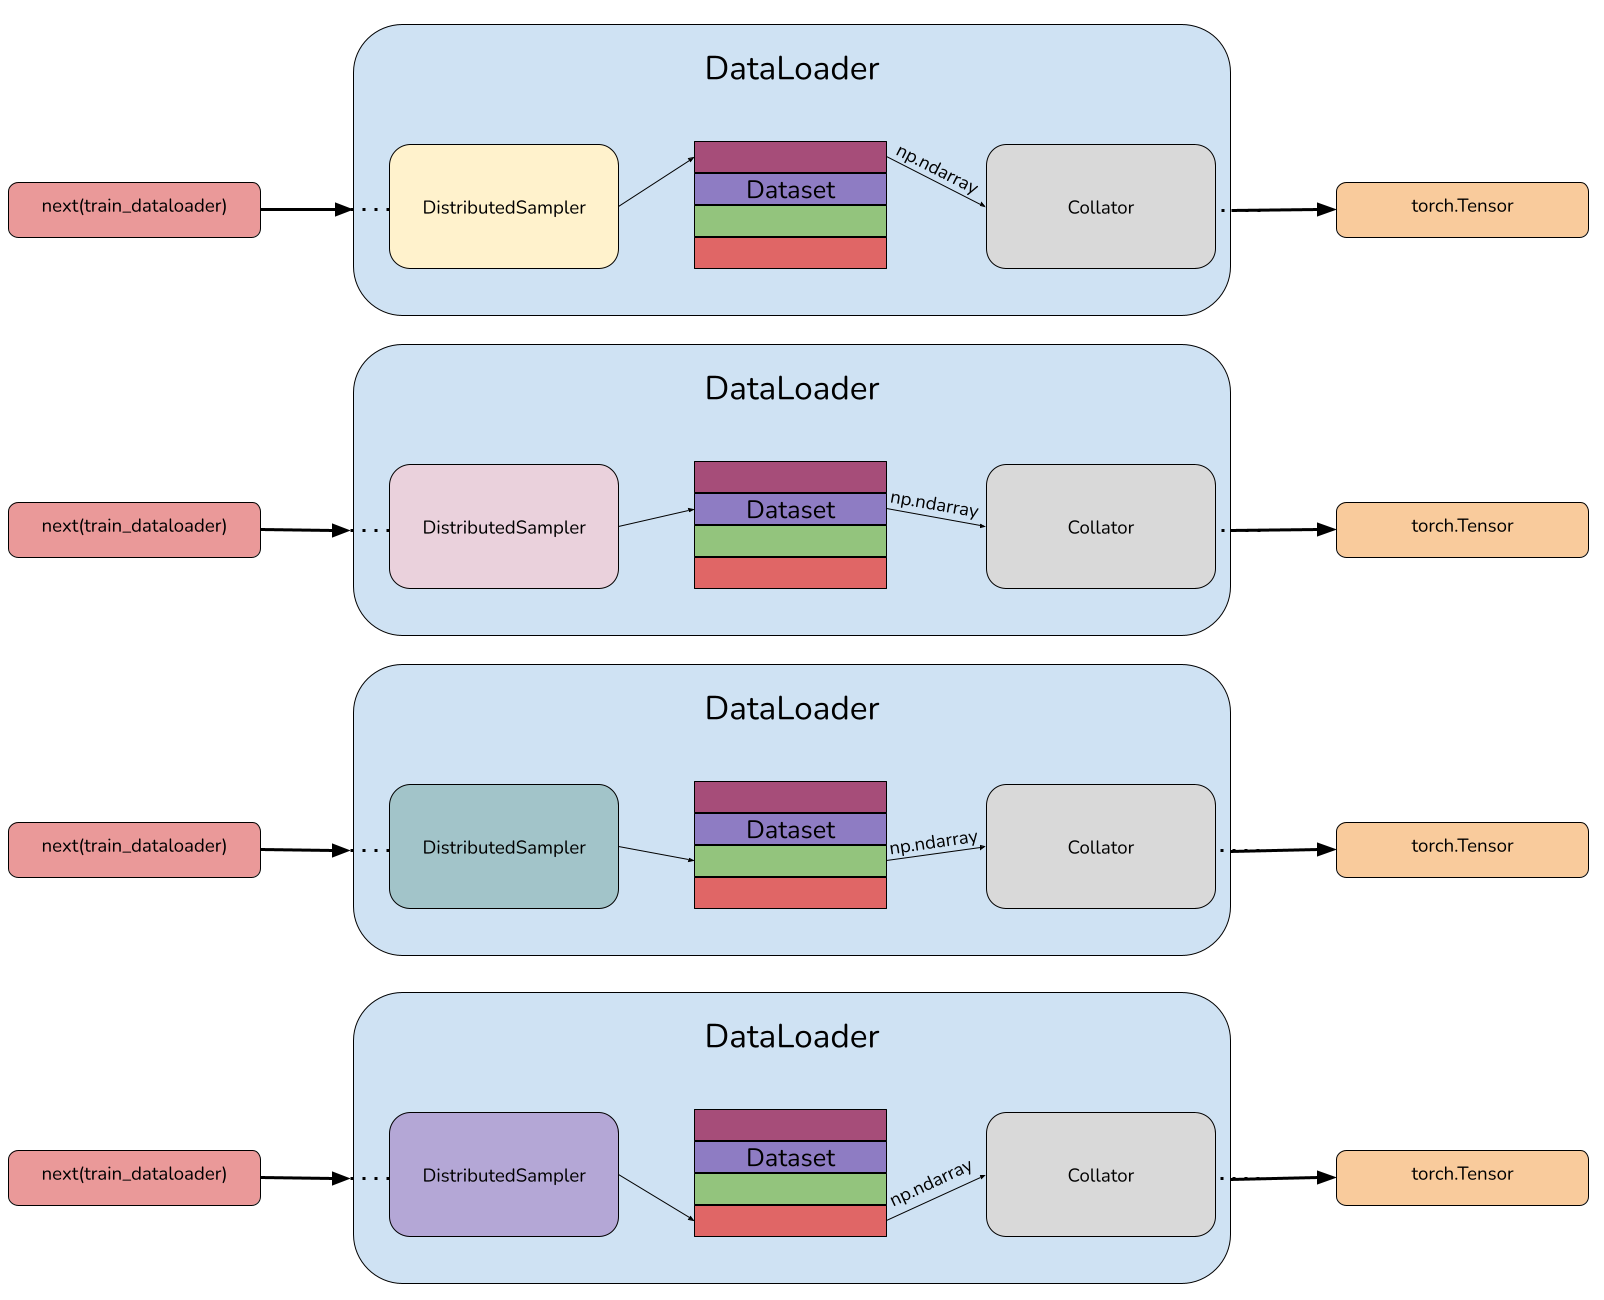
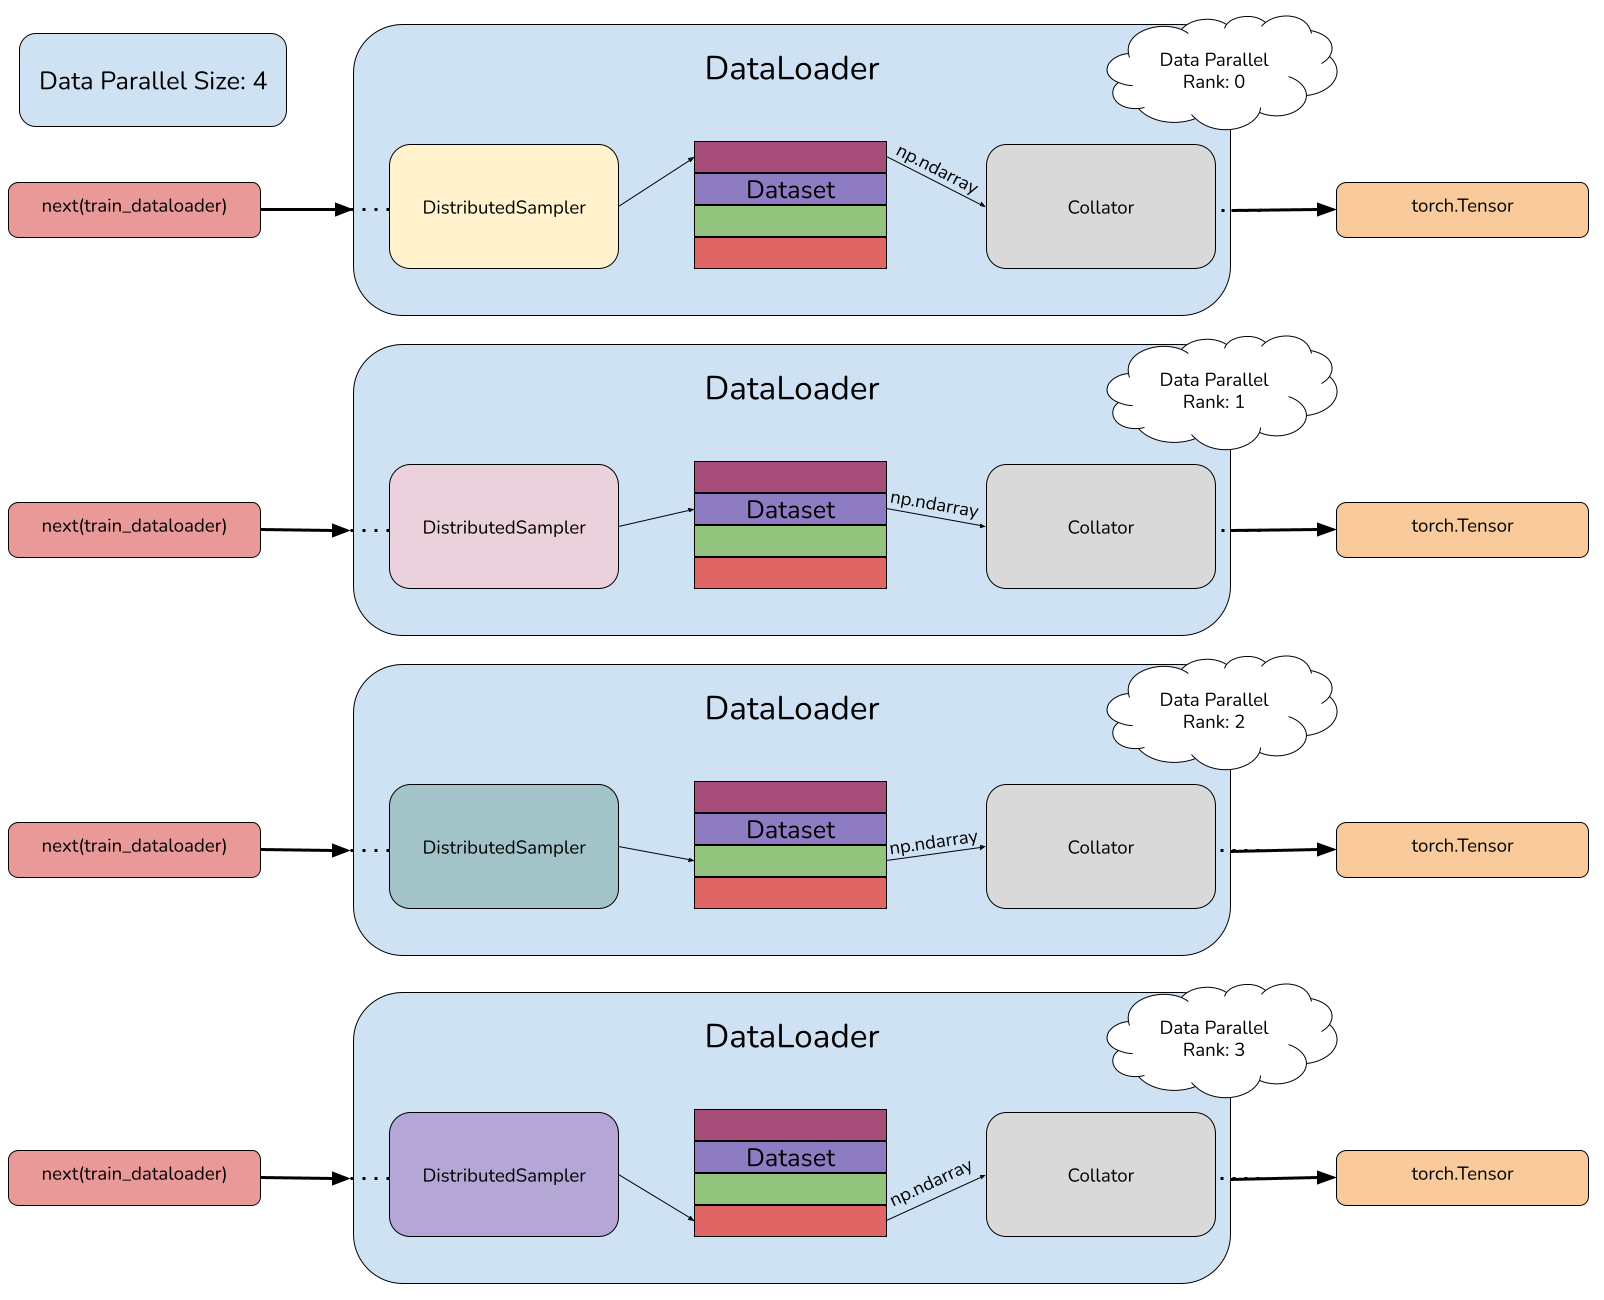
added data parallel info

diff --git a/content/post/torchs-datasets-and-dataloaders/index.md b/content/post/torchs-datasets-and-dataloaders/index.md
@@ -42,7 +42,7 @@ In this post, we will address the fundamental aspects of Torch's `Dataset`s and 
 # Nanosets
 Our objective for training LLMs is to build batches containing `batch_size` samples with `sequence_length` tokens for the `input_ids` and `labels`. To achieve this, we will present the `Nanosets`, a dataset based on [numpy memory-mapped arrays](https://numpy.org/doc/stable/reference/generated/numpy.memmap.html), which allows to easily read bytes of data from local disk. These bytes we will read are the tokens of the documents with which we want to train our model. In order not to lengthen this article, we will start from the assumption that we already have the tokenized documents stored in a file, where each token is represented by 2 bytes.
 ## Torch's Dataset
-Below we show the source code of the Nanosets.
+Below we show the source code of the `Nanosets`.
 
 ```python
 from typing import Dict, List, Union
@@ -182,7 +182,8 @@ class Nanoset(Dataset):
 
 The 3 core aspects of a `Dataset` are:
 - **\_\_init\_\_**: This method will be responsible for creating our dataset based on the arguments we introduce. Here we build all the logic related to how we interact with the `Dataset`.
-  
+  > 🚨 Next we will explain the core details of `Nanosets`. It is not necessary to understand them in depth to understand the rest of the post, so feel free to step over this part. It serves as an example to illustrate the idea that in the \_\_init\_\_ method you have to build all the necessary logic to later interact with the `Dataset`.  
+
   In our case, the parameters characterizing each `Nanoset` are as follows:
     - `dataset_paths`: One or multiple paths to the datasets containing tokenized documents.
     - `dataset_weights`: If we train the model with >1 datasets, we can specify the proportion of samples from each one during training.
@@ -281,14 +282,16 @@ In the following way, we will create the `DistributedSampler` in the processes t
 ```python
 from torch.utils.data.distributed import DistributedSampler
 
-sampler = DistributedSampler(train_nanoset, num_replicas=4, rank=0, shuffle=False)
+DATA_PARALLEL_SIZE = 4
+
+sampler = DistributedSampler(train_nanoset, num_replicas=DATA_PARALLEL_SIZE, rank=0, shuffle=False)
 ```
 
 These will be the indices that we will query from the `Dataset`.
 
 ```python
 sampler = iter(sampler)
-for _ in range(5):
+for _ in range(4):
     print(next(sampler))
 ```
 
@@ -296,14 +299,13 @@ for _ in range(5):
     4
     8
     12
-    16
 
 And this is how we create the `DistributedSampler` for the processes belonging to the second Data Parallel Rank. As can be seen, the sampler access different indices from the `Dataset`.
 
 ```python
-sampler_1 = DistributedSampler(train_nanoset, num_replicas=4, rank=1, shuffle=False)
+sampler_1 = DistributedSampler(train_nanoset, num_replicas=DATA_PARALLEL_SIZE, rank=1, shuffle=False)
 sampler_1 = iter(sampler_1)
-for _ in range(5):
+for _ in range(4):
     print(next(sampler_1))
 ```
 
@@ -311,7 +313,23 @@ for _ in range(5):
     5
     9
     13
-    17
+
+If we have a `Dataset` with 16 samples and a Data Parallel Size of 4, the `DistributedSampler` indices will look like this:
+```
+Proc1 | Proc2 | Proc3 | Proc4
+------------------------------ Epoch 1
+0	   1	   2	   3
+4	   5	   6	   7
+8	   9	   10	   11
+12	   13	   14	   15
+------------------------------ Epoch 2
+0	   1	   2	   3
+4	   5	   6	   7
+8	   9	   10	   11
+12	   13	   14	   15
+------------------------------ Epoch 3
+...
+```
 
 ### The Collator
 
@@ -464,10 +482,10 @@ I recommend that you consult the [documentation of Torch's `DataLoader`s](https:
 
 During training, interruptions are possible (such as GPU crashing, exceeding the time limit of the cluster policy, cluster down for maintenance, etc.), and there's nothing worse than having to start training all over again, right? That's why it's essential to program checkpointing mechanisms that store the model's state, but also of the `DataLoader`'s states in order to avoid consuming the same data again. To achieve this, we will have to store the number of samples consumed at the moment at which we took the checkpoint along with the model and, once we resume training, skip this number of samples in the *sampler*.
 
-Below, we show an example of how training is stopped at iteration 18 when we were going to consume sample 70. And how, upon resuming training, with the help of the `SkipBatchSampler`, we skip the first `17*batch_size` samples to resume training from sample 70.
+Below, we show an example of how training is stopped at iteration 18 when we were going to consume sample 70. And how, upon resuming training, with the help of the `SkipBatchSampler`, we skip the first `17*Data Parallel Size` samples to resume training from sample 70.
 
 ```python
-init_sampler = DistributedSampler(train_nanoset, num_replicas=4, rank=2, shuffle=False)
+init_sampler = DistributedSampler(train_nanoset, num_replicas=DATA_PARALLEL_SIZE, rank=2, shuffle=False)
 
 CRASH_AT_ITERATION = 17
 
@@ -485,24 +503,24 @@ from torch.utils.data import BatchSampler
 
 class SkipBatchSampler(BatchSampler):
     """
-    A `torch.utils.data.BatchSampler` that skips the first `n` batches of another `torch.utils.data.BatchSampler`.
-    Note that in case of DDP, we skip batches on each rank, so a total of `skip_batches * parallel_context.dp_pg.size()` batches
+    A `torch.utils.data.BatchSampler` that skips the first `n` samples of another `torch.utils.data.BatchSampler`.
+    Note that in case of DDP, we skip samples on each rank, so a total of `skipped_batches * MICRO_BATCH_SIZE * parallel_context.dp_pg.size()` samples
     """
 
-    def __init__(self, batch_sampler: BatchSampler, skip_batches: int, dp_size: int):
+    def __init__(self, batch_sampler: BatchSampler, skip_samples: int, dp_size: int):
         self.batch_sampler = batch_sampler
-        # In case of DDP, we skip batches on each rank, so a total of `skip_batches * parallel_context.dp_pg.size()` batches
-        self.skip_batches = skip_batches // dp_size
+        # In case of DDP, we skip batches on each rank, so a total of `skip_samples * parallel_context.dp_pg.size()` batches
+        self.skip_samples = skip_samples // dp_size
 
     def __iter__(self):
         for index, samples in enumerate(self.batch_sampler):
-            if index >= self.skip_batches:
+            if index >= self.skip_samples:
                 yield samples
 ```
 
 ```python
-resume_sampler = DistributedSampler(train_nanoset, num_replicas=4, rank=2, shuffle=False)
-resume_sampler = SkipBatchSampler(resume_sampler, 4*CRASH_AT_ITERATION, 4)
+resume_sampler = DistributedSampler(train_nanoset, num_replicas=DATA_PARALLEL_SIZE, rank=2, shuffle=False)
+resume_sampler = SkipBatchSampler(resume_sampler, DATA_PARALLEL_SIZE*CRASH_AT_ITERATION, 4)
 
 for sample in resume_sampler:
     print(sample)
